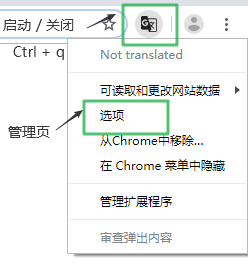
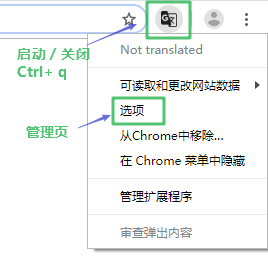
re

Changed region(s): [[0.0, 0.0, 1.0, 0.9565], [0.3952, 0.6667, 0.7339, 0.7536], [0.9315, 0.2899, 0.9879, 0.3478]]

diff --git a/README.md b/README.md
@@ -39,6 +39,12 @@
 
 ![mer.png](img/mer.png)
 
+此扩展内置了[Fira Code](https://github.com/tonsky/FiraCode) 字体, 提供三种改变体.
+
+* FiraCode-Regular
+* FiraCode-Medium
+* FiraCode-Retina
+
 ![css.png](img/css.png)
 
 ## 安装
@@ -72,7 +78,7 @@
 这个扩展追求简洁,设计成了无菜单项, 要 启动选择/关闭选择, 直接点击图标.
 也有快捷键.
 
-`Ctrl+q` 切换 开启 / 关闭
+`Ctrl + q` 切换 开启 / 关闭, Mac `Command + q`
 
 `Esc` 关闭 (当前文档失焦时, 会不起作用)
 
